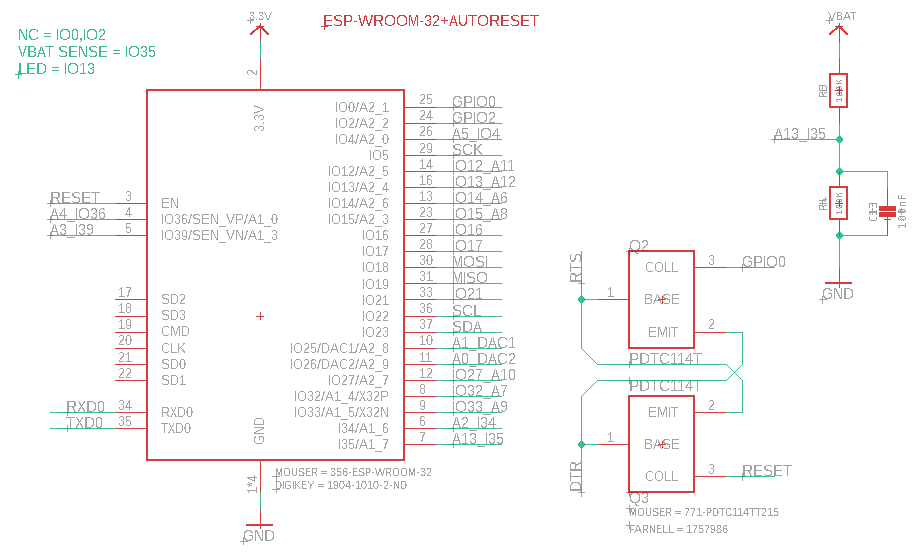
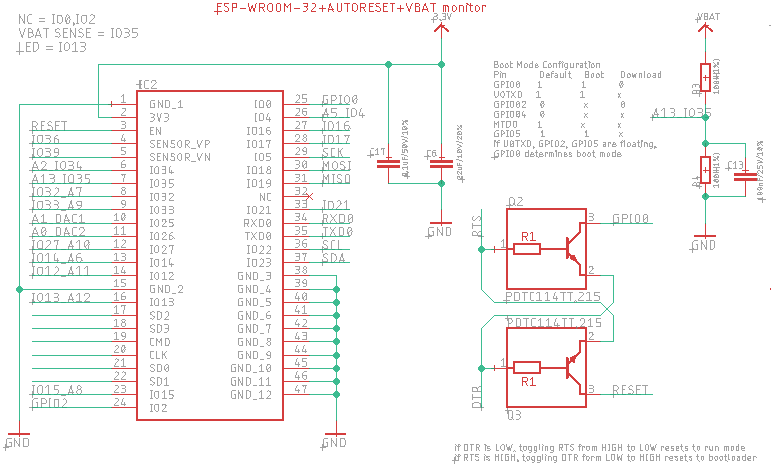
Documentation update

diff --git a/docs/hardware-design/index.rst b/docs/hardware-design/index.rst
@@ -7,11 +7,12 @@ The hardware design is based on the `Adafruit HUZZAH32 ES32 feather open source 
 The GliderThrow_Meter design is broken down into seven major sections :
  * Power supply and filtering,
  * Lipo charging,
- * USB to serial converter
+ * USB to serial converter + ESD protection,
  * MPU6050,
- * ESP-WROOM-32D & Autoreset
- * Reset circuit
- * Adressable LED
+ * ESP-WROOM-32D & Autoreset,
+ * Reset circuit,
+ * Boot circuit,
+ * Adressable LED,
 
 Power supply and filtering
 ==========================
@@ -21,7 +22,7 @@ Power supply and filtering
 
 The board can be powered from a 5V USB port (VBUS), or from a 3,7 V LIPO (or Li-Ion) 1S battery.
 
-The battery is connected to a switch that allows the battery power to be turned ON/OFF.
+The battery is connected to a switch that allows the battery supply to be turned ON/OFF.
 
 A DMG3415U (MOSFET transistor) is used to switch between VBUS and VBAT. When VBUS is not present, the gate is pulled low, and the MOSFET shorts out the body diode, connecting VBAT directly to the LDO. When VBUS is greater than VBAT (that is our case), the MOSFET is cut off and the body diode is blocking, disconnecting VBAT from the circuit. EN pin of the DMG3415U is pulled low to permanently to enable the chip.
 
@@ -37,10 +38,18 @@ The lipo charging circuit is based on the MCP73831/2 microship chip. This chip i
 .. image:: /_static/lipo-charging-design.png
    :align: center
 
-USB to serial converter
-=======================
+USB to serial converter + ESD protection
+========================================
 
 The USB serial converter is based on a CP2102N from Silicon Labs.
+
+ESD protection is done using a SP0503BAHTG from littlefuse as recommended on the datasheet.
+
+VEREGINN, VDD & VIO pins are tied to +3.3V, and also RSTB pin as recommended on the datasheet.
+
+Two decoupling capacitors are also used.
+
+To detect when the device is connected to a bus, which is defined as VIO – 0.6 V, a resistor divider on VBUS is required to meet these specifications and ensure reliable device operation. In this case, the current limitation of the resistor divider prevents high VBUS pin leakage current, even though the VIO + 2.5 V specification is not strictly met while the device is not powered.
 
 .. image:: /_static/usb-to-serial-design.png
    :align: center
@@ -48,7 +57,7 @@ The USB serial converter is based on a CP2102N from Silicon Labs.
 MPU6050
 =======
 
-The circuit for the MPU6050 is a typical application scheme (see datasheet). SDA and SCL pins are connected to the pins 22 & 23 of the ESP-WROOM-32D.
+The circuit for the MPU6050 is a typical application scheme (see datasheet). SDA and SCL pins are connected to the pins 22 & 23 of the ESP-WROOM-32D with two pullup resistors.
 
 .. image:: /_static/mpu6050-design.png
    :align: center
@@ -82,9 +91,17 @@ Reset circuit
 
 Enable (EN) is the 3.3V regulator’s enable pin. It’s pulled up, so connect to ground to disable the 3.3V regulator. So we connect this pin a pushbutton to restart your ESP32.
 
-As recommended by espressif a 1uF value capacitor is added between EN pin and GND to make automatic reset more reliable.
+As recommended by espressif a RC circuit with a resistor of 10k and a capacitor of 0,1uF is added between EN pin and +3,3V to make automatic reset more reliable.
 
 .. image:: /_static/reset-circuit-design.png
+   :align: center
+
+Boot circuit
+============
+
+Boot swith is connected to GPIO.
+
+.. image:: /_static/boot-circuit-design.png
    :align: center
 
 Adressable LED
@@ -100,17 +117,19 @@ PCB routing
 
 The routed PCB (without ground plan) is shown below. The routing was done under EAGLE.
 
-.. image:: /_static/pcb_RevE.png
+.. image:: /_static/pcb.png
    :align: center
 
 3D made with fusion 360 is shown below.
 
-.. image:: /_static/board-outline-v10.png
+.. image:: /_static/board-outline.png
    :align: center
 
-Bill Of Material & Gerber
-=========================
+Bill Of Material, Eagle Files & Gerber
+======================================
 
 BOM can be downloaded at this link `xlsx file <https://github.com/adesandr/GliderThrow_Meter/blob/master/docs/_bom/bom.xlsx>`_
 
 Gerber files can be downloaded at this link `zip file <https://github.com/adesandr/GliderThrow_Meter/blob/master/Gerber/ESP_MAD_Gerber.zip>`_
+
+Eagle files can be downloaded at this link `zip file <https://github.com/adesandr/GliderThrow_Meter/blob/master/Eagle/eagle-files.zip>`_
